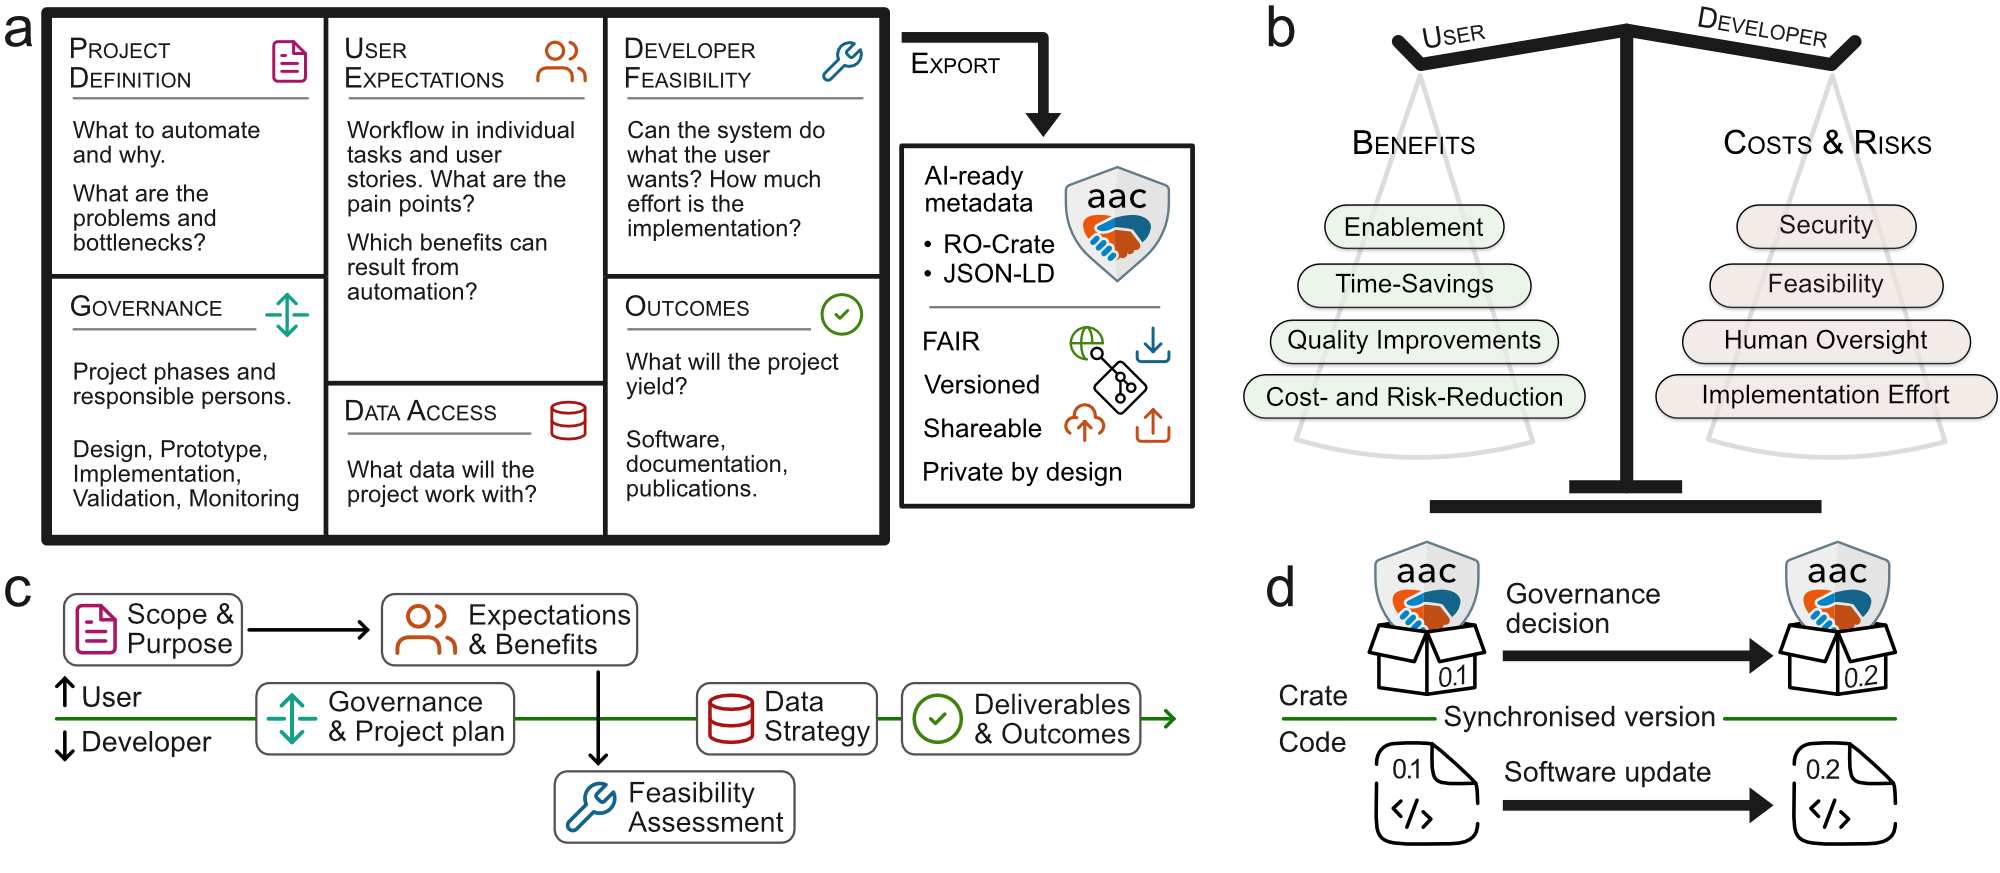
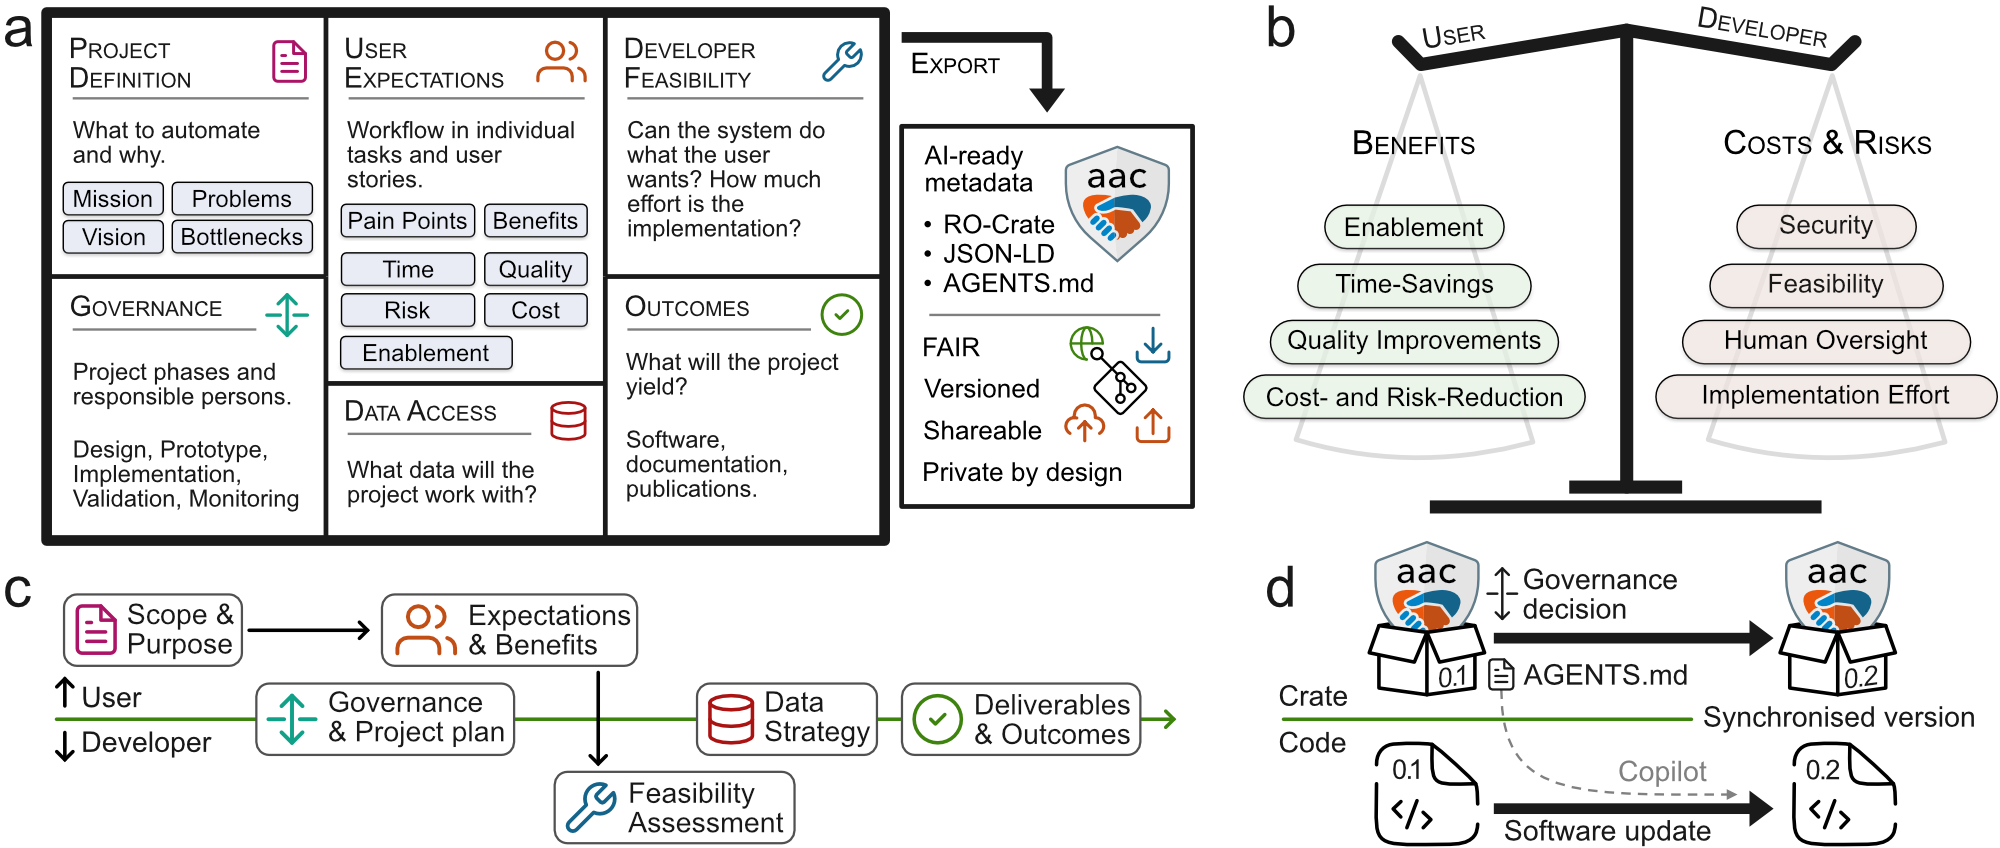
agents in manuscript, more details in methods

diff --git a/content/02.main-text.md b/content/02.main-text.md
@@ -25,10 +25,11 @@ While agentic automation canvases for clinical workflows, proprietary pipelines,
 
 Canvases can be exported at any time as Research Object Crate (RO-Crate) packages [@doi:10.3233/DS-210053], self-contained digital objects that bundle the canvas specification with standards-compliant metadata following established ontologies such as Schema.org [@doi:10.1145/2857274.2857276] and W3C DCAT [@doi:10.48550/arXiv.2303.08883] (see Methods for details).
 The resulting packages are FAIR compliant [@doi:10.1038/sdata.2016.18] but under the user's full control: they can remain strictly internal, be shared selectively with collaborators or governance boards, or be published openly in research data repositories.
+They are also AI-ready: the RO-Crate export includes an AGENTS.md file that translates the design contract into instructions consumable by coding copilots and LLM-based development agents (Figure @fig:canvas d).
 For iteration, canvases can simply be re-uploaded to the interactive web form.
 Canvases carry semantic version numbers, allowing teams to track how a project's design evolves over time and to synchronize the living document with actual implementation milestones (Figure @fig:canvas d).
-The schema profile is defined independently of the web application ([https://w3id.org/aac](https://w3id.org/aac)), enabling development of command-line tools, API integrations, and programmatic workflows.
 The additional classes we define in the AAC schema offer a structured vocabulary for the rapidly evolving landscape of agentic AI implementation patterns, complementary to the existing semantic web base vocabulary.
+The schema profile is defined independently of the web application ([https://w3id.org/aac](https://w3id.org/aac)), enabling development of command-line tools, API integrations, and programmatic workflows.
 
 We are applying the AAC to numerous projects spanning single-cell bioinformatics, clinical research assistants, drug target databases, patient-facing chatbots, research data management, and institutional AI coordination.
 Use cases range from individual project design through portfolio management to research infrastructure specification.

diff --git a/content/04.methods.md b/content/04.methods.md
@@ -48,7 +48,7 @@ Terms such as DUO:0000006 (health or medical or biomedical research) and DUO:000
 
 ### Schema Profile
 
-The AAC schema profile is maintained independently of the web application at https://w3id.org/aac/ and includes the following components:
+The AAC schema profile is maintained independently of the web application at [https://w3id.org/aac/](https://w3id.org/aac/) and includes the following components:
 
 **JSON Schema** (`canvas-schema.json`): A formal JSON Schema (Draft 07) specification that validates canvas data structure.
 The schema enforces required fields (project title, description, and stage), validates enumerated values (TRL levels, risk levels, DUO terms, benefit types, access rights), and ensures referential integrity between person identifiers and their references in stakeholder and agent roles.
@@ -61,7 +61,9 @@ The schema enforces required fields (project title, description, and stage), val
 
 ### Implementation
 
-The web application is built with Vue.js 3 and TypeScript, using Vite for build tooling and Tailwind CSS for styling.
+The web application is built with Vue.js 3 (v3.5.27), TypeScript (v5.9.3), Vite (v7.3.1), and Tailwind CSS (v3.4.19).
+The version of the schema and application at the time of this publication are 0.12.2.
+Dependencies are managed with **npm** for the front-end (Node.js) and **uv** for the documentation and tooling environment (Python); the exact resolved versions are recorded in the repository lockfiles ([package-lock.json](https://github.com/slolab/agentic-automation-canvas/blob/main/package-lock.json), [uv.lock](https://github.com/slolab/agentic-automation-canvas/blob/main/uv.lock)).
 The interface is organized into sections corresponding to the six canvas dimensions, with collapsible panels, contextual help tooltips, and form validation providing immediate feedback on data completeness and correctness.
 Complex data structures (requirements, stakeholders, governance stages, datasets) support add, edit, and delete operations with nested sub-forms.
 
